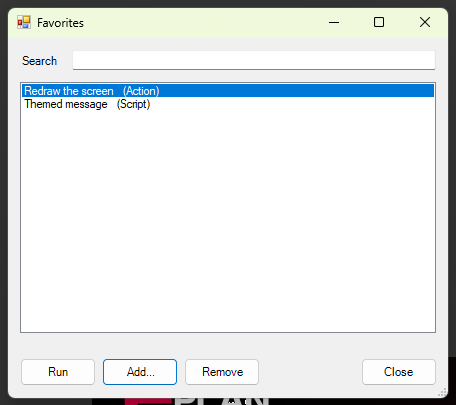
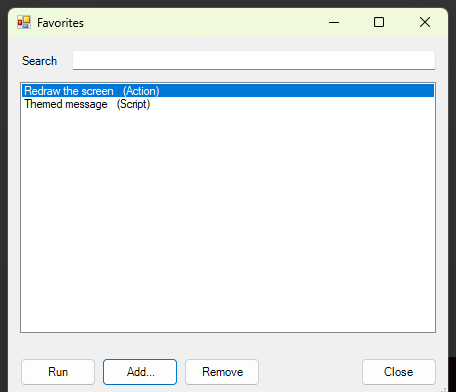
Update docs to match Eplan 2026 test results; fix data-model examples; tidy screenshots
- how-eplan-loads-scripts: C# 5 only, data model not referenced, implicit namespaces tested
- reaching-the-data-model: lock and ambiguous-match fixes, selection limit
- troubleshooting: new entries from the test run
- IDEAS and README: statuses, partly-tested examples (14, 18, 24)
- crop screenshots 06, 16, 21, 22 to the dialog only

diff --git a/docs/how-eplan-loads-scripts.md b/docs/how-eplan-loads-scripts.md
@@ -1,23 +1,37 @@
 # How Eplan loads scripts
 
-> This page records what has been **verified** in Eplan 2026.0.3. Items marked _to verify_ are working assumptions that will be confirmed and updated as examples are tested.
+> This page records what has been **verified** in Eplan 2026.0.3 (Update 5) by running small test scripts. Anything not yet tested is marked _to verify_.
 
 ## The basics
 
 - A script is a `.cs` source file. Eplan compiles it when you run or load it. There is no separate build or installer step. **Run** (File > Extras > Interfaces > Scripts) executes it once; **Load** registers it so it stays available, and Eplan registers loaded scripts again at the next start. See [How to run a script](running-scripts.md).
 - Eplan exposes its features to scripts through the public API assemblies in its `Bin` folder (for example `Eplan.EplApi.Baseu`, `Eplan.EplApi.AFu`, `Eplan.EplApi.Guiu`, `Eplan.EplApi.DataModelu`).
 - The 2026 API assemblies target **.NET Framework 4.8.1** (verified from the installs).
-- A script marks the method Eplan should run with the `[Start]` attribute. Other attributes let scripts register actions, menu items, or event handlers. The examples introduce each one when needed. _Exact attribute usage per example will be confirmed during testing._
+- A script marks the method Eplan should run with the `[Start]` attribute. Other attributes let scripts register actions, menu items, or event handlers. The examples introduce each one when needed. The `[Start]` method was confirmed in every example that was run.
 
 ## What a script can reference
 
 Eplan's 2026 documentation lists what scripts can use without extra references: `System`, `System.Drawing`, `System.Windows.Forms`, `System.Net.Http`, `System.IO.Compression.FileSystem`, `System.Xml.Linq`, `System.Xml`, `System.Core` and **Newtonsoft.Json**, plus the Eplan **Base**, **ApplicationFramework**, **Gui** and **MasterData** assemblies. The data model and services assemblies are not on the list, and extra references cannot be added from a script. Scripts that need the data model reach it by reflection: see [Reaching Eplan's data model](reaching-the-data-model.md).
 
-It is also reported that Eplan adds some of its own namespaces to every script, which can make a short name such as `EventHandler` ambiguous (error CS0104). Write `System.EventHandler` in full to avoid it. The local compile-check follows both rules, so the examples stay safe either way. The extra namespaces are still _to verify_ in Eplan.
+### Confirmed by test scripts in Eplan 2026
+
+| Question | Result |
+|----------|--------|
+| Can a script name a data model type such as `Eplan.EplApi.DataModel.Project` directly? | **No.** The script does not compile. Use reflection (see the guide above). The data model is nevertheless already loaded inside Eplan, so reflection finds it. |
+| Is the application framework namespace (`Eplan.EplApi.ApplicationFramework`, which holds `CommandLineInterpreter` and `ActionCallingContext`) usable directly? | **Yes.** Examples 17 to 20, 24, 26 and 19 use it. |
+| Does `Newtonsoft.Json` work directly? | **Yes** (examples 08, 21). |
+| Does the `MasterData` parts API work directly? | **Yes** (example 11). |
+| Is `System.Windows.Forms` added to every script? | **Yes.** `MessageBox.Show("x")` compiled with no `using` line for it. |
+| Is `System.IO` added to every script? | **No.** `Path.GetTempPath()` without `using System.IO;` did not compile. |
+| Is a bare `EventHandler` a problem when `using System;` is present? | **Yes, it did not compile**, while `System.EventHandler` written in full did. Eplan has its own `EventHandler` name. |
+
+The compile errors were seen as a script that did not run; the exact message text was not captured, so the two rows that say "did not compile" are based on the script not running while an identical script without that one change ran.
+
+The local compile-check still adds a longer list of namespaces than the two confirmed above. That keeps it on the cautious side for name clashes, but it can accept a script that is missing a `using` line Eplan needs. Add the `using` lines you need.
 
 ## Compiler and language version
 
-_To verify:_ which C# language version Eplan's script compiler accepts. Until confirmed, the examples use only C# 5 syntax (no string interpolation, no `?.`, no `out var`), which is accepted by any compiler Eplan could reasonably use. This page will be updated with the result.
+Eplan 2026 accepts **C# 5 syntax only**. Test scripts using string interpolation (`$"..."`), the null-conditional `?.` and `nameof` each failed to run, while the same script with a plain `out` variable declared on its own line, `var`, and `System.Linq` ran fine. Write C# 5. Those three features were tested one by one; other newer features (such as `out var` and expression-bodied members) were not tried individually, so keep avoiding them.
 
 ## Where scripts live
 

diff --git a/README.md b/README.md
@@ -36,21 +36,21 @@ Beginner examples explain the basic C# they use. Later examples cover data grids
 | 11 | [Parts viewer](examples/11-parts-viewer/) | Search the parts database as you type | Intermediate | Available |
 | 12 | [Please-wait window](examples/12-please-wait-window/) | Keep a moving window up while Eplan is busy | Advanced | Available |
 | 13 | [Dark-mode-safe controls](examples/13-dark-safe-controls/) | Date field, drop-down, check box and progress bar for dark mode | Intermediate | Available |
-| 14 | [Selection explorer](examples/14-selection-explorer/) | Write the properties of your selection to a text file | Intermediate | Available |
+| 14 | [Selection explorer](examples/14-selection-explorer/) | Write the properties of your selection to a text file | Intermediate | Available, partly tested |
 | 15 | [Hand a value between scripts](examples/15-hand-off-value/) | Pass a short-lived value from one script to another | Advanced | Available |
 | 16 | [Modern folder picker](examples/16-modern-folder-picker/) | The Explorer-style "choose a folder" window | Advanced | Available |
 | 17 | [Export launcher](examples/17-export-launcher/) | PDF export with a file name pattern | Intermediate | Available |
-| 18 | [Device list export](examples/18-device-list-export/) | CSV, XML or text, opened in Excel | Intermediate | Available |
+| 18 | [Device list export](examples/18-device-list-export/) | CSV, XML or text, opened in Excel | Intermediate | Available, partly tested |
 | 19 | [Renumber helper](examples/19-renumber-helper/) | A safe front end for the renumber action | Intermediate | Available |
 | 20 | [Timestamped backup](examples/20-timestamped-backup/) | A backup with the date and time in its name | Intermediate | Available |
 | 21 | [Favorites launcher](examples/21-favorites-launcher/) | A searchable list of your scripts and actions | Intermediate | Available |
 | 22 | [Results window](examples/22-results-window/) | One report window instead of many message boxes | Intermediate | Available |
 | 23 | [Bulk edit pages](examples/23-bulk-edit/) | Preview, then change many pages at once | Advanced | Available |
-| 24 | [CSV preview and import](examples/24-csv-device-import/) | Check a CSV file before importing it | Advanced | Available |
+| 24 | [CSV preview and import](examples/24-csv-device-import/) | Check a CSV file before importing it | Advanced | Available, partly tested |
 | 25 | [Settings finder](examples/25-settings-finder/) | Search Eplan's settings (read-only) | Intermediate | Available |
 | 26 | [Back up first, then run](examples/26-backup-then-run/) | A safety net in front of risky work | Intermediate | Available |
 
-**Draft** examples are written and compile-checked, but have not been run in Eplan yet. Try them on a copy of a project and tell us what you find. More ideas are in [IDEAS.md](IDEAS.md). Request one by opening an issue.
+Every example has been run in Eplan 2026 (Update 5), and examples 06 to 26 on a copy of a demo project; each example's README says exactly what was checked. Examples 14, 18 and 24 are only partly confirmed (see their READMEs), and some options inside the other examples have not been tried yet. Try them on a copy of a project and tell us what you find. More ideas are in [IDEAS.md](IDEAS.md). Request one by opening an issue.
 
 ## Quick start
 

diff --git a/docs/reaching-the-data-model.md b/docs/reaching-the-data-model.md
@@ -52,4 +52,9 @@ The examples that need the data model (09, 10, 14 and 23) each carry a short hel
 
 ## What has and has not been confirmed
 
-The member names used by the examples (`Project.Pages`, `Project.ProjectName`, `Page.Name`, `Page.PageTypeName`, `Page.Properties`, `PagePropertyList.PAGE_NOMINATIOMN`, `UniversalPropertyList.ExistingIds` and `ExistingValues`, `SelectionSet.GetCurrentProject`) were checked against the installed 2026 assemblies. The helper classes were tested outside Eplan against stand-in objects of the same shape. **Running them inside Eplan is still to be done**, which is why those examples are marked Draft.
+The helpers were run inside Eplan 2026 (Update 5) by examples 09, 10, 14 and 23, on a copy of a demo project. Reading the project, its pages and their properties works, and so does changing a page description (example 23, confirmed by reading it back afterwards). Two things went wrong in the first drafts and are now fixed in all four examples:
+
+1. **The project could not be opened for reading.** `SelectionSet.GetCurrentProject` failed with "Failed to generate an object of the LockingStep class" until `LockSelectionByDefault` was set to `false` on the selection object first.
+2. **Reading the page description by name hit an "ambiguous match" error.** Eplan declares the same property name more than once on its property list classes, so asking .NET for one property by name fails. The helper now walks the list of properties itself and picks the one whose name matches.
+
+Also worth knowing: the member names were checked first against the installed 2026 assemblies (`Project.Pages`, `Project.ProjectName`, `Page.Name`, `Page.PageTypeName`, `Page.Properties`, `PagePropertyList.PAGE_NOMINATIOMN`, `UniversalPropertyList.ExistingIds` and `ExistingValues`, `SelectionSet.GetCurrentProject`) and all of them worked as listed. Not yet working: the **selection of objects on an open drawing page** did not reach the script (example 14 reported nothing selected after Select All on a page), while pages selected in the page navigator did. Other object types, such as devices, have not been tried.

diff --git a/docs/troubleshooting.md b/docs/troubleshooting.md
@@ -25,6 +25,22 @@
 
 - Save the file, then **run it again** in Eplan so it recompiles. If you registered the script with **Load**, unload it and load it again to be safe.
 
+## A script that uses the data model says "Exception has been thrown by the target of an invocation"
+
+That message only wraps the real one. Look at the inner exception, or show `ex.InnerException.Message`. Two real causes were found in Eplan 2026: "Failed to generate an object of the LockingStep class" (set `LockSelectionByDefault` to `false` before asking for the project) and "Ambiguous match found" (read properties by scanning the list instead of asking for one by name). See [Reaching the data model](reaching-the-data-model.md).
+
+## My script does not run and nothing is shown
+
+A script that does not compile can simply not run. Check the usual suspects: newer C# syntax (Eplan 2026 accepts C# 5 only), a missing `using System.IO;`, a bare `EventHandler` (write `System.EventHandler`), or a direct use of a data model type. [How Eplan loads scripts](how-eplan-loads-scripts.md) lists what was tested.
+
+## The export action ignored my file name
+
+In Eplan 2026 the PDF export action named the file itself (project name, date and time) whatever name was passed in. Example 17 finds the file the action just made and renames it. If you rely on a name, do the same.
+
+## "Nothing is selected" although I selected things
+
+Objects selected on an open drawing page did not reach a script in the tests (example 14). Pages selected in the page navigator did.
+
 ## Still stuck?
 
 Open an Issue with your Eplan version, what you did, and the exact error text. Please remove any customer or project data first.
